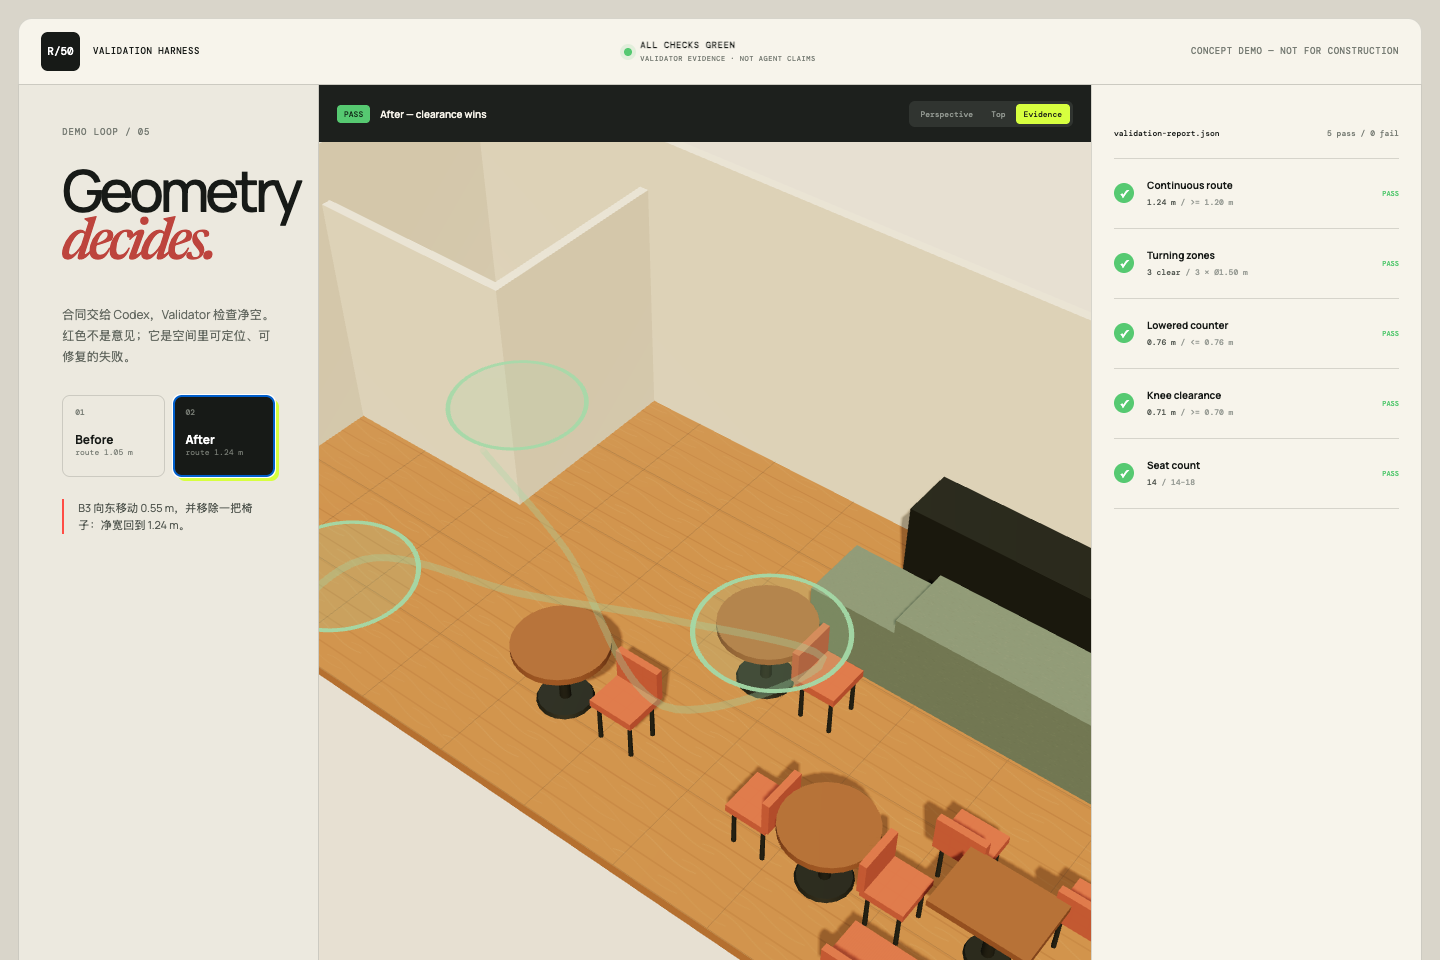
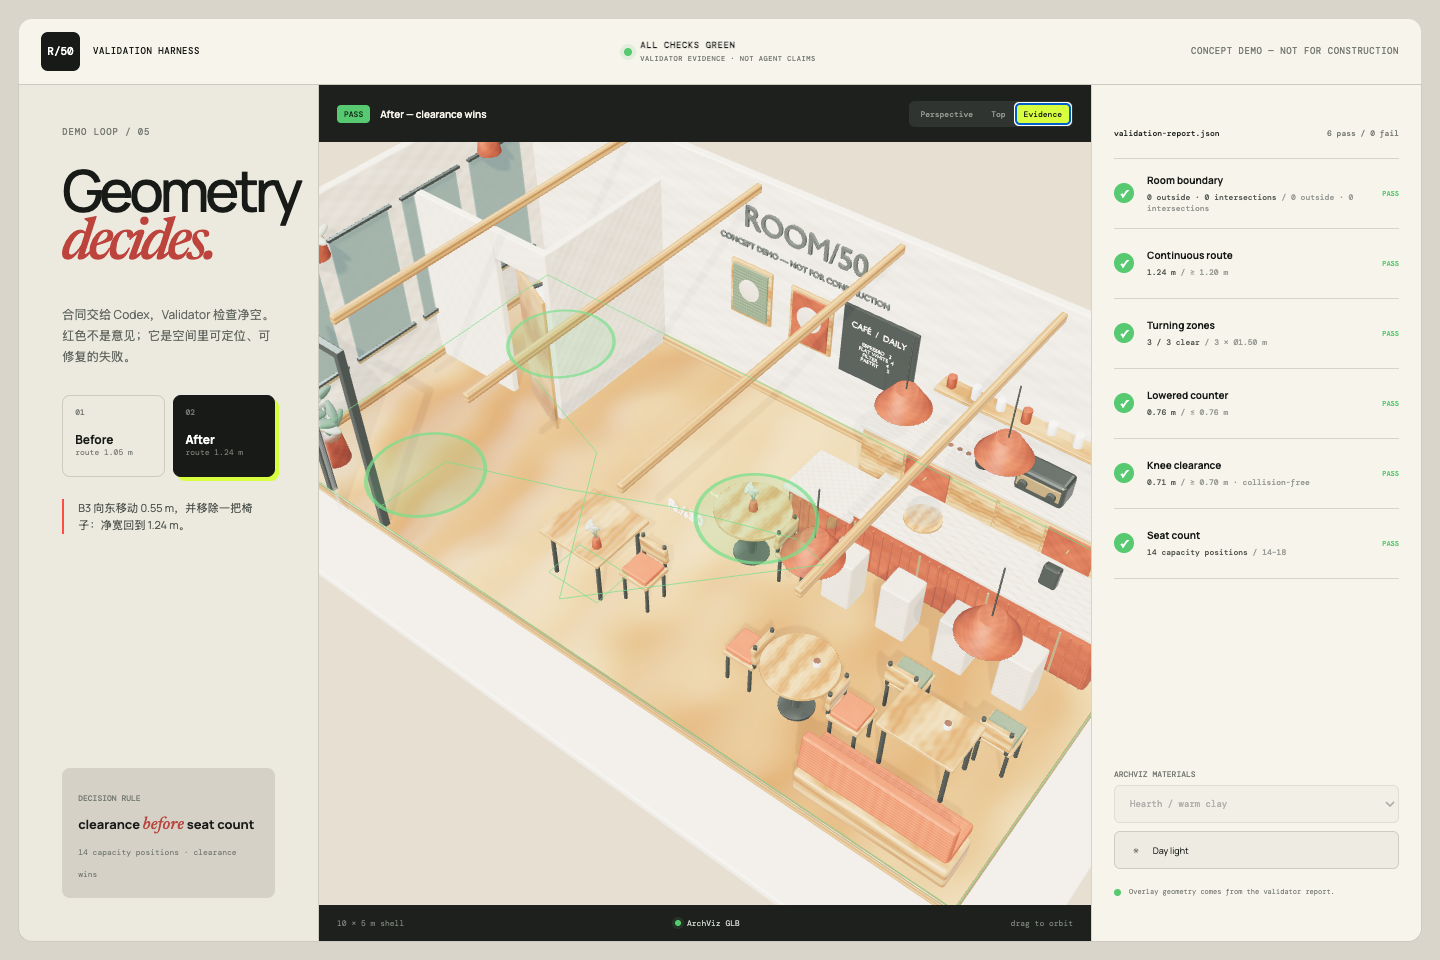
Harden schema and refresh demo evidence

diff --git a/demo/app.js b/demo/app.js
@@ -79,7 +79,10 @@ function renderStatus({ brief, report, checks, seatCapacity = capacityFromBrief(
   ui.runState.textContent = overall === "pass" ? "ALL CHECKS GREEN" : "FIX REQUIRED";
   ui.runState.closest(".run-state").className = `run-state is-${overall}`;
   ui.label.textContent = brief.label || "ROOM/50 scene";
-  ui.summary.textContent = `${report.summary.passed} pass / ${report.summary.failedErrors} error fail${report.summary.failedWarnings ? ` / ${report.summary.failedWarnings} warning fail` : ""}`;
+  const failures = [];
+  if (report.summary.failedErrors) failures.push(`${report.summary.failedErrors} error`);
+  if (report.summary.failedWarnings) failures.push(`${report.summary.failedWarnings} warning`);
+  ui.summary.textContent = `${report.summary.passed} pass / ${failures.length ? failures.join(" / ") : "0 fail"}`;
   ui.seatDelta.textContent = `${seatCapacity} capacity positions · ${overall === "pass" ? "clearance wins" : "one fix required"}`;
   ui.list.replaceChildren(...checks.map((check) => {
     const row = document.createElement("article");